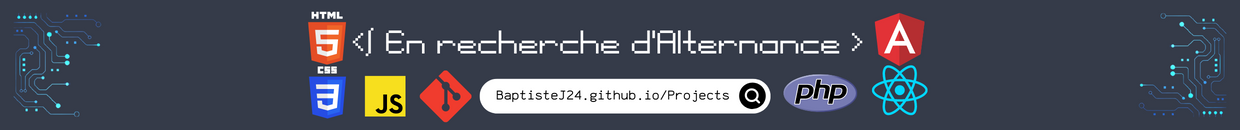
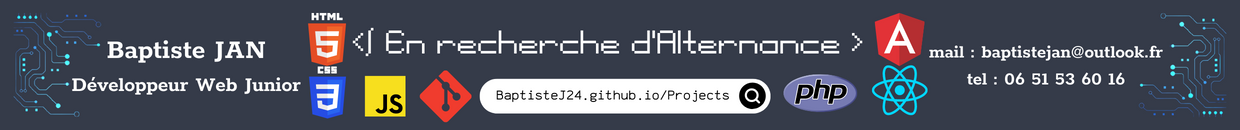
update mise en page

diff --git a/views/index.html b/views/index.html
@@ -16,25 +16,7 @@
 
 <body>
 	<div id="cv">
-		<div class="mainDetails">
-			<div id="mainDetails">
-				<ul>
-					<li>
-						<h1>Baptiste JAN</h1>
-					</li>
-					<li>
-						<h2>Développeur Web Junior</h2>
-					</li>
-				</ul>
-			</div>
-
-			<div id="contactDetails">
-				<ul>
-					<li>Mail: <a href="mailto:baptistejan@outlook.fr" target="_blank">baptistejan@outlook.fr</a></li>
-					<li>Tel: 06 51 53 60 16</li>
-				</ul>
-			</div>
-		</div>
+		<div class="mainDetails"></div>
 		<div id="menu"></div>
 
 		<div id="mainArea" class="quickFade delayFive">

diff --git a/views/propos.html b/views/propos.html
@@ -17,25 +17,7 @@
 </head>
 <body>
 	<div id="cv">
-		<div class="mainDetails">
-			<div id="mainDetails">
-				<ul>
-					<li>
-						<h1>Baptiste JAN</h1>
-					</li>
-					<li>
-						<h2>Développeur Web Junior</h2>
-					</li>
-				</ul>
-			</div>
-
-			<div id="contactDetails">
-				<ul>
-					<li>Mail: <a href="mailto:baptistejan@outlook.fr" target="_blank">baptistejan@outlook.fr</a></li>
-					<li>Tel: 06 51 53 60 16</li>
-				</ul>
-			</div>
-		</div>
+		<div class="mainDetails"></div>
 		<div id="menu"></div>
 
 		<div id="mainArea">

diff --git a/views/skills.html b/views/skills.html
@@ -16,25 +16,7 @@
 
 <body>
 	<div id="cv">
-		<div class="mainDetails">
-			<div id="mainDetails">
-				<ul>
-					<li>
-						<h1>Baptiste JAN</h1>
-					</li>
-					<li>
-						<h2>Développeur Web Junior</h2>
-					</li>
-				</ul>
-			</div>
-
-			<div id="contactDetails">
-				<ul>
-					<li>Mail: <a href="mailto:baptistejan@outlook.fr" target="_blank">baptistejan@outlook.fr</a></li>
-					<li>Tel: 06 51 53 60 16</li>
-				</ul>
-			</div>
-		</div>
+		<div class="mainDetails"></div>
 		<div id="menu"></div>
 		
 		<div id="mainArea">

diff --git a/views/experience.html b/views/experience.html
@@ -18,25 +18,7 @@
 
 <body>
 	<div id="cv">
-		<div class="mainDetails">
-			<div id="mainDetails">
-				<ul>
-					<li>
-						<h1>Baptiste JAN</h1>
-					</li>
-					<li>
-						<h2>Développeur Web Junior</h2>
-					</li>
-				</ul>
-			</div>
-
-			<div id="contactDetails">
-				<ul>
-					<li>Mail: <a href="mailto:baptistejan@outlook.fr" target="_blank">baptistejan@outlook.fr</a></li>
-					<li>Tel: 06 51 53 60 16</li>
-				</ul>
-			</div>
-		</div>
+		<div class="mainDetails"></div>
 		<div id="menu"></div>
 
 

diff --git a/assets/css/styles.css b/assets/css/styles.css
@@ -130,6 +130,7 @@ p {
 .mainDetails {
 	background-image: url(../png/Banner.png);
 	height: 130px;
+	width: 1240px;
 }
 
 .images_petit {
